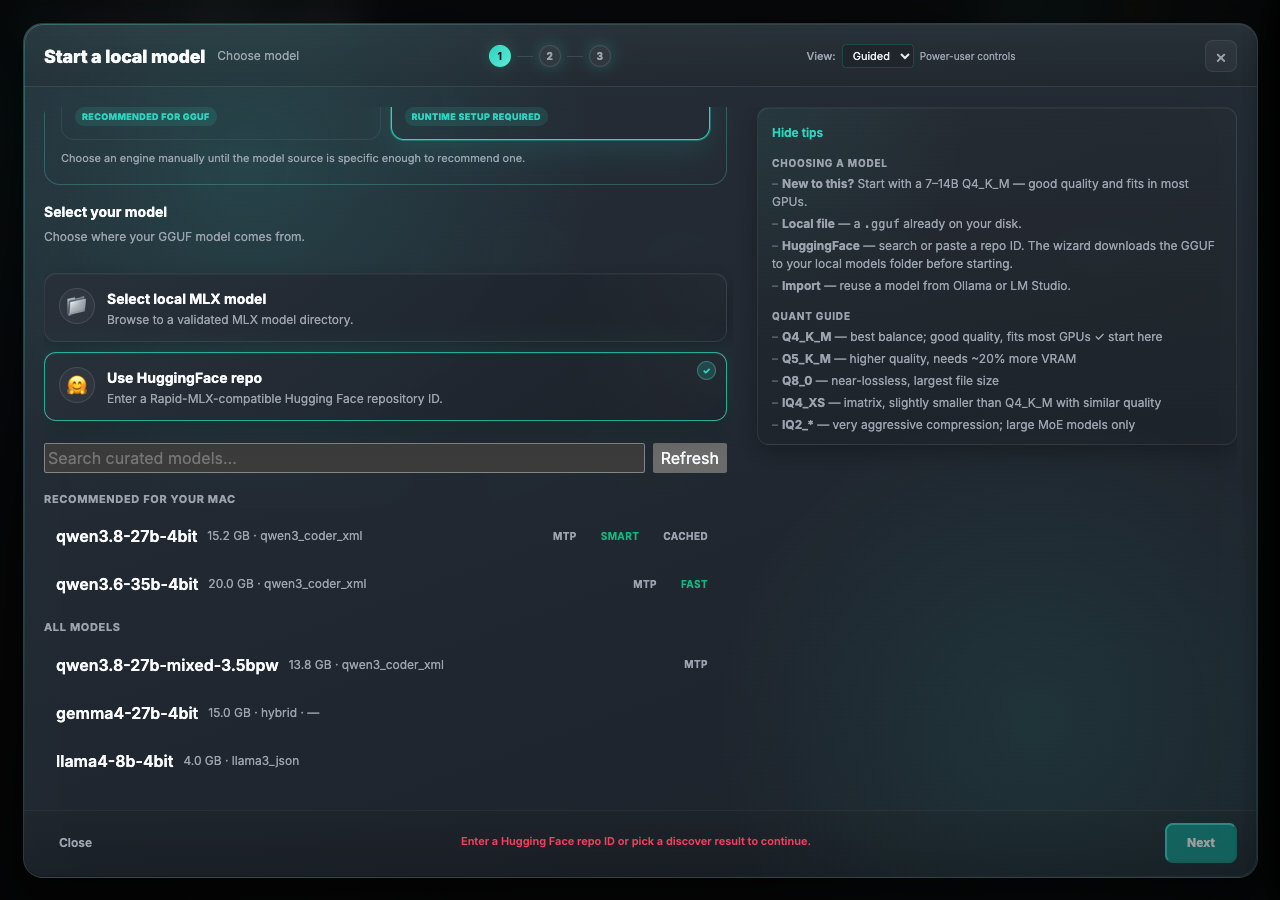
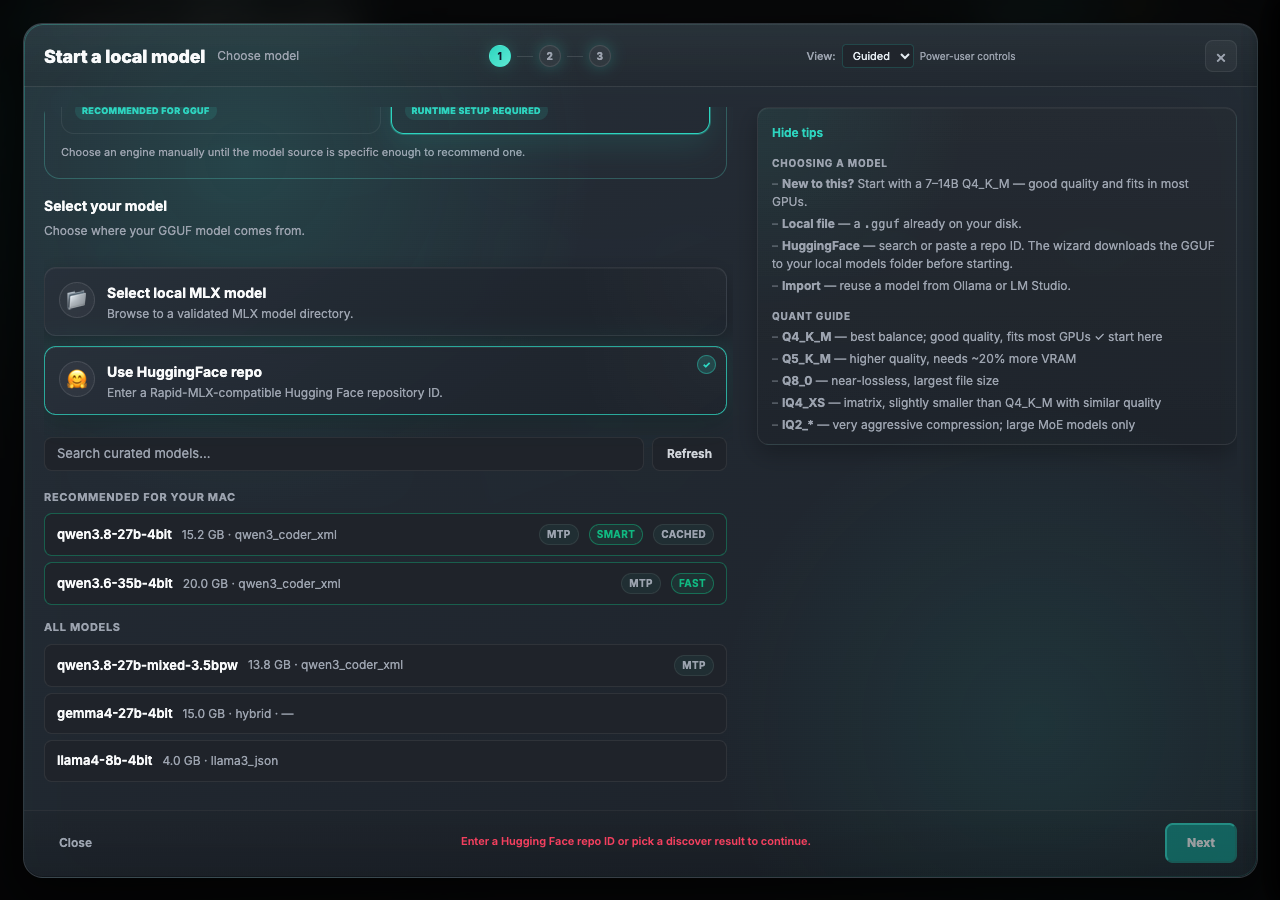
fix(wizard): theme catalog, expand review, resolve managed preview

diff --git a/static/css/components.css b/static/css/components.css
@@ -5170,10 +5170,54 @@ button:disabled {
   display: flex;
   gap: 8px;
   margin-bottom: 10px;
+  align-items: stretch;
 }
 
 .rapid-catalog-search {
   flex: 1;
+  min-width: 0;
+  min-height: 34px;
+  padding: 0 12px;
+  border: 1px solid var(--border-subtle);
+  border-radius: 8px;
+  background: var(--color-bg-elevated);
+  color: var(--color-text-primary);
+  font-size: 13px;
+}
+
+.rapid-catalog-search::placeholder {
+  color: var(--color-text-muted);
+}
+
+.rapid-catalog-search:focus {
+  outline: none;
+  border-color: var(--acc-50);
+  box-shadow: 0 0 0 2px var(--acc-08);
+}
+
+.rapid-catalog-refresh {
+  min-height: 34px;
+  padding: 0 14px;
+  border: 1px solid var(--border-subtle);
+  border-radius: 8px;
+  background: var(--color-bg-elevated);
+  color: var(--color-text-secondary);
+  font-size: 12px;
+  font-weight: 600;
+  cursor: pointer;
+  white-space: nowrap;
+}
+
+.rapid-catalog-refresh:hover {
+  border-color: var(--acc-50);
+  color: var(--color-text-primary);
+  background: var(--acc-08);
+}
+
+.rapid-catalog-refresh:focus-visible {
+  outline: none;
+  border-color: var(--acc-50);
+  box-shadow: 0 0 0 2px var(--acc-08);
 }
 
 .rapid-catalog-list {
@@ -5198,22 +5242,29 @@ button:disabled {
   align-items: center;
   gap: 10px;
   width: 100%;
-  padding: 9px 12px;
-  border: 1px solid var(--color-border);
+  padding: 10px 12px;
+  border: 1px solid var(--border-subtle);
   border-radius: 8px;
-  background: transparent;
-  color: var(--color-text);
+  background: var(--color-bg-elevated);
+  color: var(--color-text-primary);
   cursor: pointer;
   text-align: left;
 }
 
 .rapid-catalog-row:hover {
-  border-color: var(--color-accent);
-  background: color-mix(in srgb, var(--color-accent) 6%, transparent);
+  border-color: var(--acc-50);
+  background: var(--acc-08);
+}
+
+.rapid-catalog-row:focus-visible {
+  outline: none;
+  border-color: var(--acc-50);
+  box-shadow: 0 0 0 2px var(--acc-08);
 }
 
 .rapid-catalog-name {
   font-weight: 600;
+  font-size: 13px;
 }
 
 .rapid-catalog-meta {
@@ -5233,17 +5284,19 @@ button:disabled {
   text-transform: uppercase;
   padding: 2px 7px;
   border-radius: 999px;
-  border: 1px solid var(--color-border);
+  border: 1px solid var(--border-subtle);
   color: var(--color-text-muted);
+  background: color-mix(in srgb, var(--color-accent) 6%, transparent);
 }
 
 .rapid-catalog-row--recommended {
-  border-color: color-mix(in srgb, var(--color-success) 40%, transparent);
+  border-color: color-mix(in srgb, var(--color-success, #10b981) 40%, transparent);
 }
 
 .rapid-catalog-tier {
-  border-color: color-mix(in srgb, var(--color-success) 45%, transparent);
-  color: var(--color-success);
+  border-color: color-mix(in srgb, var(--color-success, #10b981) 45%, transparent);
+  color: var(--color-success, #10b981);
+  background: color-mix(in srgb, var(--color-success, #10b981) 10%, transparent);
 }
 
 .rapid-catalog-empty {

diff --git a/tests/ui/core/spawn-wizard.spec.js b/tests/ui/core/spawn-wizard.spec.js
@@ -11,6 +11,44 @@ import { test, expect } from '@playwright/test';
 import AxeBuilder from '@axe-core/playwright';
 
 test.describe('Spawn Wizard - Phases 3, 4, and Rapid-MLX Phase 6', () => {
+  test('@in-memory-test curated catalog excludes dedicated media pipelines from list and recommendations', async ({ page }) => {
+    await page.route('**/api/**', route => route.abort());
+    await page.goto('/');
+    const result = await page.evaluate(async () => {
+      const { filterChatModels, loadRapidCatalog, renderRapidCatalogPicker } = await import('/js/features/spawn-wizard-rapid-catalog.js');
+      const models = [
+        { name: 'chat', parser: 'hermes' },
+        { name: 'vision-chat', template: 'qwen-vl' },
+        { name: 'tts', parser: 'audio:tts', template: 'qwen' },
+        { name: 'transcription', parser: 'audio:stt' },
+        { name: 'image', parser: 'image:gen' },
+        { name: 'video', template: 'video:gen' },
+        { name: 'upper-media', parser: ' AUDIO:TTS ' },
+        { name: 'unknown', parser: '—', template: '(none)' },
+      ];
+      const originalFetch = window.fetch;
+      try {
+        window.fetch = async () => new Response(JSON.stringify({
+          models,
+          recommendations: [{ name: 'tts', label: 'Fast' }, { name: 'chat', label: 'Smart' }],
+        }), { status: 200, headers: { 'Content-Type': 'application/json' } });
+        await loadRapidCatalog(true);
+        const container = document.createElement('div');
+        renderRapidCatalogPicker(container);
+        return {
+          names: filterChatModels(models).map(model => model.name),
+          rows: [...container.querySelectorAll('.rapid-catalog-name')].map(row => row.textContent),
+          tiers: [...container.querySelectorAll('.rapid-catalog-tier')].map(row => row.textContent),
+        };
+      } finally {
+        window.fetch = originalFetch;
+      }
+    });
+    expect(result.names).toEqual(['chat', 'vision-chat']);
+    expect(result.rows).toEqual(['chat', 'vision-chat']);
+    expect(result.tiers).toEqual(['Smart']);
+  });
+
   test('@in-memory-test calibration candidates apply through canonical wizard controls', async ({ page }) => {
     await page.goto('/');
     const result = await page.evaluate(async () => {

diff --git a/static/js/features/spawn-wizard-rapid-catalog.js b/static/js/features/spawn-wizard-rapid-catalog.js
@@ -8,7 +8,7 @@
 // engine is selected this picker replaces the HF browse UI entirely.
 //
 // Upstream's per-machine tier recommendations (`rapid-mlx recipe`) are pinned
-// on top; image-generation rows are filtered out of the spawn catalog.
+// on top; dedicated audio/image/video pipelines are excluded from this LLM picker.
 
 import { wizardState } from './spawn-wizard.js';
 
@@ -17,9 +17,13 @@ let _catalogGeneration = 0;
 let _filterTimer = null;
 
 function isChatModel(entry) {
-  // Chat models carry a tool parser and/or template pairing; image-generation
-  // and other non-serving rows don't.
-  return Boolean(entry.parser || entry.template);
+  // Upstream also uses the parser/template columns for pipeline labels such
+  // as audio:tts, image:gen and video:gen. Those are not chat pairings.
+  const pairings = [entry.parser, entry.template]
+    .filter(value => typeof value === 'string')
+    .map(value => value.trim().toLowerCase());
+  if (pairings.some(value => /^(audio|image|video)(:|$)/.test(value))) return false;
+  return pairings.some(value => value && !['—', '-', 'none', '(none)', 'n/a'].includes(value));
 }
 
 export function filterChatModels(models) {

diff --git a/static/css/spawn-wizard-theme.css b/static/css/spawn-wizard-theme.css
@@ -4926,6 +4926,8 @@
   background: color-mix(in srgb, var(--color-surface, #17202b) 88%, transparent);
   overflow: hidden;
 }
+/* Same flex-column crush hazard as .spawn-config-card above. */
+.spawn-full-config-drawer { flex-shrink: 0; }
 .spawn-full-config-summary {
   display: flex;
   align-items: center;
@@ -5047,6 +5049,10 @@
   overflow-y: auto;
   display: flex;
   flex-direction: column;
+  /* wizard-main is a flex column; a scroll-container flex item loses its
+     min-height:auto floor, so without this the card is crushed to a sliver
+     whenever the step's content overflows. The page must scroll instead. */
+  flex-shrink: 0;
 }
 .spawn-config-card::-webkit-scrollbar { width: 5px; }
 .spawn-config-card::-webkit-scrollbar-track { background: transparent; }

diff --git a/src/web/api/rapid_mlx_runtime.rs b/src/web/api/rapid_mlx_runtime.rs
@@ -385,7 +385,7 @@ pub(crate) fn routes(ctx: ApiCtx) -> ApiRoute {
         .unify()
         .or(settings_catalog_route(ctx.clone()))
         .unify()
-        .or(command_preview_route(ctx.clone()))
+        .or(command_preview_route(ctx.clone(), state.clone()))
         .unify()
         .or(prefix_cache_guidance_route(ctx.clone()))
         .unify()
@@ -1108,26 +1108,30 @@ pub struct SettingsValidateRequest {
     pub serve_flags: Option<String>,
 }
 
-fn command_preview_route(ctx: ApiCtx) -> ApiRoute {
+fn command_preview_route(ctx: ApiCtx, runtime: RuntimeApiState) -> ApiRoute {
     let config = ctx.config;
     let state = ctx.state;
     warp::path!("api" / "rapid-mlx" / "command-preview")
         .and(warp::post())
         .and(warp::header::optional::<String>("authorization"))
         .and(super::super::safe_json_body::<CommandPreviewRequest>())
-        .and_then(move |auth: Option<String>, req: CommandPreviewRequest| {
-            let config = config.clone();
-            let state = state.clone();
-            async move {
-                if !check_api_token(&auth, &config) {
-                    return Ok(unauthorized_api_token());
+        .and_then(
+            move |auth: Option<String>, mut req: CommandPreviewRequest| {
+                let config = config.clone();
+                let state = state.clone();
+                let runtime = runtime.clone();
+                async move {
+                    if !check_api_token(&auth, &config) {
+                        return Ok(unauthorized_api_token());
+                    }
+                    resolve_preview_managed_path(&mut req.config, &runtime).await;
+                    let models_dir = super::models::get_effective_models_dir(&state)
+                        .unwrap_or_else(|| config.default_models_dir.clone());
+                    let reply = build_command_preview(req, models_dir).await;
+                    Ok::<ApiReply, warp::Rejection>(reply)
                 }
-                let models_dir = super::models::get_effective_models_dir(&state)
-                    .unwrap_or_else(|| config.default_models_dir.clone());
-                let reply = build_command_preview(req, models_dir).await;
-                Ok::<ApiReply, warp::Rejection>(reply)
-            }
-        })
+            },
+        )
         .boxed()
 }
 
@@ -1926,6 +1930,13 @@ async fn managed_executable(state: &RuntimeApiState) -> Option<std::path::PathBu
         .ok()?
         .ok()?;
     status.active.map(|active| active.executable_path)
+}
+async fn resolve_preview_managed_path(config: &mut RapidMlxConfig, runtime: &RuntimeApiState) {
+    // Browser requests do not know the managed environment path.
+    // Resolve the active pointer just as catalog/status do, preserving overrides.
+    if config.managed_runtime_path.is_none() {
+        config.managed_runtime_path = managed_executable(runtime).await;
+    }
 }
 
 fn development_source_route(ctx: ApiCtx, state: RuntimeApiState) -> ApiRoute {
@@ -3385,6 +3396,71 @@ mod tests {
             changelog_cache: Arc::new(changelog::ChangelogCacheManager::new()),
             client: reqwest::Client::new(),
         }
+    }
+    #[tokio::test]
+    async fn preview_resolves_active_managed_runtime_without_client_paths() {
+        use sha2::{Digest, Sha256};
+
+        let temp = tempfile::tempdir().unwrap();
+        let manager = RapidMlxRuntimeManager::new(temp.path()).unwrap();
+        let root = temp.path().join("runtimes/rapid-mlx");
+        let environment = root.join("environments/preview-test");
+        std::fs::create_dir_all(environment.join("bin")).unwrap();
+        let binary = environment.join("bin/rapid-mlx");
+        let contents = b"fixture executable";
+        std::fs::write(&binary, contents).unwrap();
+        std::fs::write(environment.join(".complete"), []).unwrap();
+        std::fs::write(
+            environment.join("manifest.json"),
+            serde_json::to_vec(&serde_json::json!({
+                "schema_version": 1,
+                "environment_id": "preview-test",
+                "version": "0.15.6",
+                "binary_relative_path": "bin/rapid-mlx",
+                "binary_sha256": Sha256::digest(contents).iter().map(|byte| format!("{byte:02x}")).collect::<String>(),
+                "runtime_source": "managed",
+                "compatibility_state": "verified",
+                "release_channel": "stable"
+            }))
+            .unwrap(),
+        )
+        .unwrap();
+        std::fs::write(
+            root.join("current.json"),
+            serde_json::to_vec(&serde_json::json!({
+                "schema_version": 1,
+                "active_environment_id": "preview-test",
+                "previous_environment_id": null
+            }))
+            .unwrap(),
+        )
+        .unwrap();
+        let binary = binary.canonicalize().unwrap();
+        let mut runtime = test_state();
+        runtime.manager = Ok(Arc::new(manager));
+        let mut config = RapidMlxConfig::default();
+        resolve_preview_managed_path(&mut config, &runtime).await;
+        assert_eq!(
+            config.managed_runtime_path.as_deref(),
+            Some(binary.as_path())
+        );
+        let (resolved, source) = Discovery::resolve_binary(
+            config.executable_path.as_deref(),
+            config.managed_runtime_path.as_deref(),
+        )
+        .await
+        .unwrap();
+        assert_eq!(resolved, binary);
+        assert_eq!(
+            source,
+            crate::inference::rapid_mlx::runtime::RuntimeSource::Managed
+        );
+
+        // Caller-supplied paths retain the existing override semantics.
+        let override_path = temp.path().join("override");
+        config.managed_runtime_path = Some(override_path.clone());
+        resolve_preview_managed_path(&mut config, &runtime).await;
+        assert_eq!(config.managed_runtime_path, Some(override_path));
     }
 
     fn queued_job(id: &str) -> RuntimeJobSnapshot {

diff --git a/docs/reference/spawn-wizard.md b/docs/reference/spawn-wizard.md
@@ -230,6 +230,10 @@ selected the model step swaps Hugging Face discovery for the curated catalog
 selecting a row fills the alias, measured size, and paired speculative sidecar
 in one step.
 
+The picker includes conversational LLMs, including vision-capable chat models.
+Dedicated audio pipelines (TTS/transcription), image generation, and video
+generation are excluded from both the searchable list and pinned recommendations.
+
 ![Curated Rapid-MLX model picker](../screenshots/rapidmlx-local--spawn-wizard-rapid-catalog-picker.png)
 
 ![One-click catalog selection](../screenshots/rapidmlx-local--spawn-wizard-rapid-catalog-selected.png) Models outside the catalog still launch when they resolve locally
@@ -359,6 +363,11 @@ monitoring. The expandable **Full config** review is the canonical launch summar
 llama.cpp rows identify requested and estimator-effective values; Rapid-MLX rows identify
 requested values and runtime-effective command-preview evidence. Preset save/load options
 are available here.
+
+The Full config review expands to its content height; scroll the wizard page to
+read all settings. The Ready to launch card keeps its natural height, with an
+internal scrollbar only when its content exceeds 340px. Neither card shrinks
+to fit the remaining viewport space.
 
 ## Engine selection
 

diff --git a/docs/reference/rapid-mlx-runtime.md b/docs/reference/rapid-mlx-runtime.md
@@ -22,6 +22,11 @@ The managed runtime is designed with these goals:
 - No leakage of internal filesystem paths into API responses.
 - Capability-driven compatibility checks instead of hard-coded version allowlists.
 
+The wizard's launch-command preview resolves the active managed environment
+server-side when no managed path is supplied. Explicit executable overrides
+remain authoritative; otherwise discovery uses the managed runtime before PATH.
+The browser does not need to know the installed environment's filesystem path.
+
 ### Capability evidence
 
 Every launch re-runs bounded version, help, dependency, and optional-extra probes for
